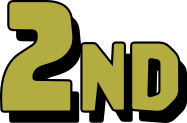
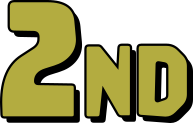
results final

diff --git a/js/live_rumble_results.js b/js/live_rumble_results.js
@@ -205,51 +205,104 @@ $(document).ready(function () {
                 },
 
                 { data: "sscore", title: "Time", visible: false, orderable: false},          // 23
-                { data: "srank", title: "Rank", visible: false, orderable: false},           // 24
+                { 
+                    data: "srank", title: "Rank", visible: false, orderable: false, 
+                    class: "dt-center",
+                    render: function (data, type) {
+                        if (type === "display") {
+                            switch (data) {
+                                case 1:
+                                    return `<img src="assets/rumble_first.png" class="rounded mx-auto d-block" alt="..."></img>`;
+                                case 2:
+                                    return `<img src="assets/rumble_second.png" class="rounded mx-auto d-block" alt="..."></img>`;
+                                case 3:
+                                    return `<img src="assets/rumble_third.png" class="rounded mx-auto d-block" alt="..."></img>`;    
+                                case 4:
+                                case 5:
+                                case 6:
+                                    return `<span class="fw-semibold">${data}</span>`;
+                                default:
+                                    return data;
+                            }
+                        }
+                        return data;
+                    }
+                },           // 24
                 { data: "btops", title: "Tops", visible: false, orderable: false},           // 25
                 { data: "bzones", title: "Zones", visible: false, orderable: false},          // 26
                 { data: "btopattemtps", title: "att top", visible: false, orderable: false},    // 27
                 { data: "bzoneattempts", title: "att zone", visible: false, orderable: false},   // 28
-                { data: "brank", title: "Rank", visible: false, orderable: false},           // 29
+                { data: "brank", title: "Rank", visible: false, orderable: false, class: "dt-center",
+                    render: function (data, type) {
+                        if (type === "display") {
+                            switch (data) {
+                                case 1:
+                                    return `<img src="assets/rumble_first.png" class="rounded mx-auto d-block" alt="..."></img>`;
+                                case 2:
+                                    return `<img src="assets/rumble_second.png" class="rounded mx-auto d-block" alt="..."></img>`;
+                                case 3:
+                                    return `<img src="assets/rumble_third.png" class="rounded mx-auto d-block" alt="..."></img>`;    
+                                case 4:
+                                case 5:
+                                case 6:
+                                    return `<span class="fw-semibold">${data}</span>`;
+                                default:
+                                    return data;
+                            }
+                        }
+                        return data;
+                    }
+                },           // 29
                 { data: "ltops", title: "Tops", visible: false, orderable: false},           // 30
                 { data: "lmoves", title: "Moves", visible: false, orderable: false},          // 31
-                { data: "lrank", title: "Rank", visible: false, orderable: false},           // 32
+                { data: "lrank", title: "Rank", visible: false, orderable: false, 
+                    class: "dt-center",
+                    render: function (data, type) {
+                        if (type === "display") {
+                            switch (data) {
+                                case 1:
+                                    return `<img src="assets/rumble_first.png" class="rounded mx-auto d-block" alt="..."></img>`;
+                                case 2:
+                                    return `<img src="assets/rumble_second.png" class="rounded mx-auto d-block" alt="..."></img>`;
+                                case 3:
+                                    return `<img src="assets/rumble_third.png" class="rounded mx-auto d-block" alt="..."></img>`;    
+                                case 4:
+                                case 5:
+                                case 6:
+                                    return `<span class="fw-semibold">${data}</span>`;
+                                default:
+                                    return data;
+                            }
+                        }
+                        return data;
+                    }
+                },           // 32
                 { data: "rscore", title: "Score", visible: false, orderable: false},          // 33
-                {
-                    data: "rrank",
+                { data: "rrank", title: "Rank", visible: false, orderable: false, 
                     class: "dt-center",
                     render: function (data, type) {
                         if (type === "display") {
                             switch (data) {
                                 case 1:
                                     //return `<div class="primary-dark bg-transparent text-wrap style="width: 2rem;"><i class="bi bi-trophy-fill"></i></div>`;
-                                    return `<div class="primary-dark bg-transparent text-wrap style="width: 2rem;"><img src="assets/champion.png" class="rounded mx-auto d-block" alt="..."></img></div>`;
-                                    
-                                    break;
+                                    return `<img src="assets/rumble_champion.png" class="rounded mx-auto d-block" alt="..."></img>`;
                                 case 2:
-                                    return `<div class="primary-dark bg-transparent text-wrap style="width: 2rem;"><img src="assets/rumble_second.png" class="rounded mx-auto d-block" alt="..."></img></div>`;
                                     //return `<div class="primary-dark bg-transparent text-wrap style="width: 2rem;"><i class="bi bi-award-fill"></i></div>`;
-                                    break;
+                                    return `<img src="assets/rumble_second.png" class="rounded mx-auto d-block" alt="..."></img>`;
                                 case 3:
-                                    return `<div class="primary-dark bg-transparent text-wrap style="width: 2rem;"><img src="assets/rumble_third.png" class="rounded mx-auto d-block" alt="..."></img></div>`;    
                                     //return `<div class="primary-dark bg-transparent text-wrap style="width: 2rem;"><i class="bi bi-award"></i></div>`;
-                                    break;
+                                    return `<img src="assets/rumble_third.png" class="rounded mx-auto d-block" alt="..."></img>`;    
                                 case 4:
                                 case 5:
                                 case 6:
-                                    return `<span class="primary-dark bg-transparent fw-semibold">${data}</span>`;
-                                    break;
+                                    return `<span class="fw-semibold">${data}</span>`;
                                 default:
-                                    return `<span class="primary-dark bg-transparent">${data}</span>`;
+                                    return data;
                             }
                         }
                         return data;
-                    },
-                    title: "Rank", visible: false, orderable: false
-                },                                          // 34
-
-                
-
+                    }
+                }                                       // 34
             ],
 
             initComplete: function () {

diff --git a/liverumble_results.html b/liverumble_results.html
@@ -88,7 +88,7 @@
                                     <th colspan="6" class="text-center bg-lead  border-dark border-opacity-25 border border-start-0 rounded-end"></th>  <!-- lead -->
                                     <th colspan="2" class="text-center bg-speed border-dark border-opacity-25 border rounded">Speed</th>  <!-- speed results -->
                                     <th colspan="5" class="text-center bg-boulder border-dark border-opacity-25 border rounded">Boulder</th>         <!-- boulder results -->
-                                    <th colspan="3" class="text-center bg-lead border-dark border-opacity-25 border rounded">Rope climbing</th>              <!-- lead reasults -->
+                                    <th colspan="3" class="text-center bg-lead border-dark border-opacity-25 border rounded">Lead / Top rope</th>              <!-- lead reasults -->
                                     <th colspan="2" class="text-center bg-rumble border-dark border-opacity-25 border rounded">Rumble</th>   <!-- rumble results -->
                                 </tr>
                                 <tr class="bg-rumble-white text-black">
@@ -149,7 +149,7 @@
         const settingUrl = "https://script.google.com/macros/s/AKfycby5_YrDysnN2wZMLkaMNwKLpz-a7_jbEC3aLpHjBkI6KJgfUHe0Pa8ju4y-3USr15IUNw/exec?setting";
         const minPageDisplay = 10000; // minimum time for a page to be displayed
         let dataRefreshInterval = 60 * 60000; // frequency for data refresh (1min = 60000)
-        const rowsPerPage = 10; // number of rows per page
+        const rowsPerPage = 7; // number of rows per page
         const filter = ""; // filtering data - enter category
         const catTimeEnd = "2022-10-22 20:15";
         const allowModalTimer = false;
